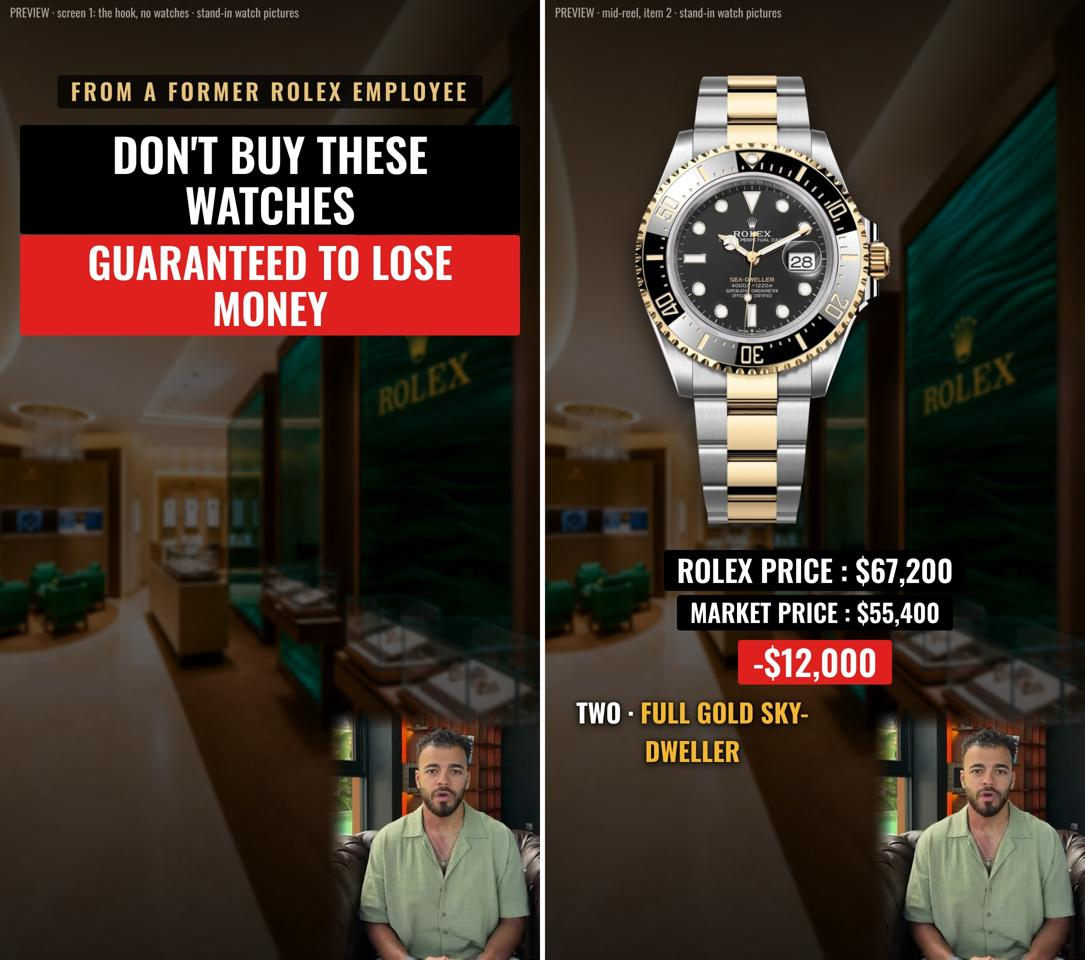
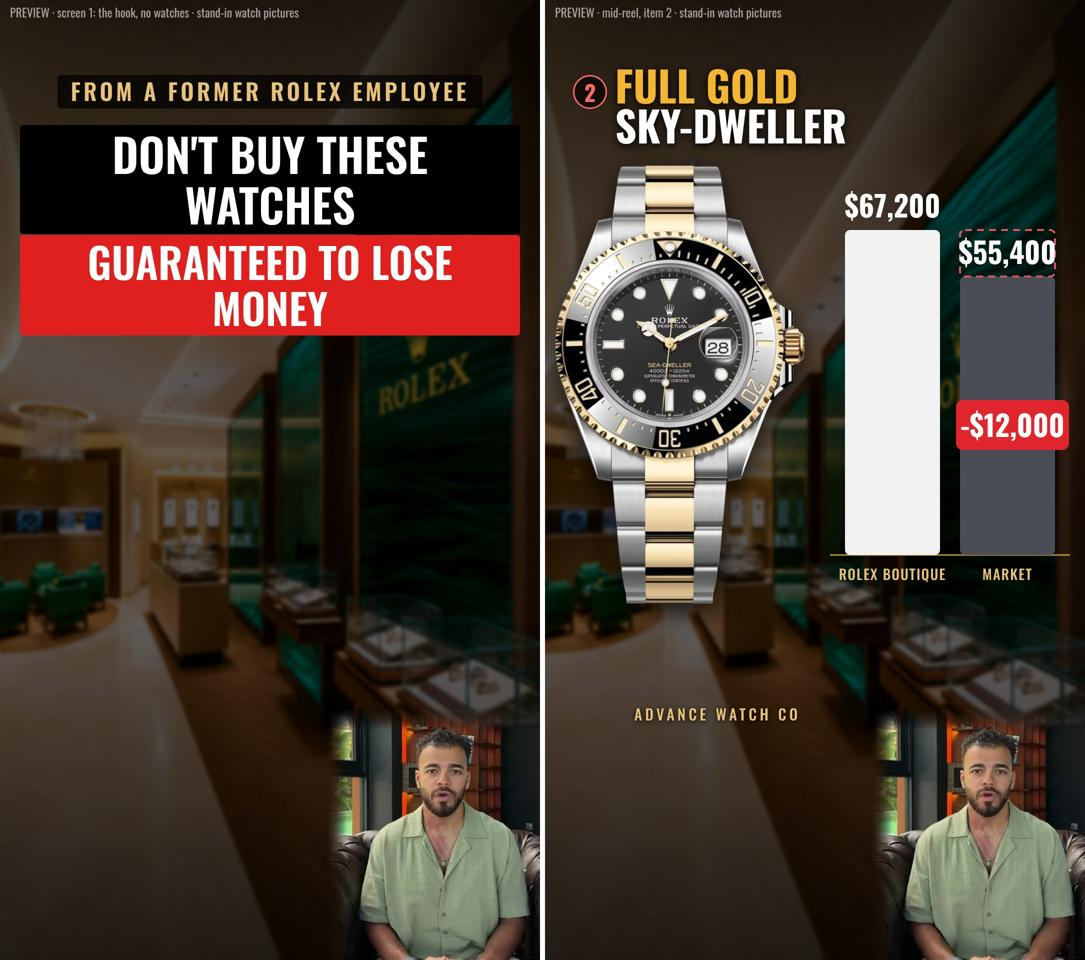
Five reels: R1 bar chart, R4 falling chart
Claude-Session: https://claude.ai/code/session_0196sG434LsFacRR9je27wED

Changed region(s): [[0.4866, 0.0625, 1.0, 0.8125]]

diff --git a/reels/scripts/five_top_reels.md b/reels/scripts/five_top_reels.md
@@ -3,7 +3,7 @@ Nothing is made and no credits are spent until you say "make it" for each one.
 Look: you bottom-right, hook first with no watches, 50 fps, natural audio. Each reel copies the visual concept of YOUR original video of that reel (see 'Visual' under each). Only R5 is a ranking-board reel. Shirts alternate: R1 green, R2 beige, R3 green, R4 beige, R5 green.
 
 ## R1. 571K "5 Rolex you should never buy at retail" (gold lineup) | green | about 60 s, about 21 credits
-Visual (your v7 video): bright boutique photo, one big watch in the middle per item, black price tags "ROLEX PRICE" then "MARKET PRICE", then a red loss box. Hook screen has no watches.
+Visual (new, in the style you liked): numbered title, watch on the left, and a price-drop bar chart on the right: a tall bar for the boutique price, a shorter bar for the market price, and a red box showing the loss. Hook screen has no watches.
 
 From a former Rolex employee: don't buy these watches, because you are guaranteed to lose money. Five Rolex watches you should never buy at retail.
 One. The full rose gold GMT. It's $58,100 at the Rolex boutique, and in the market it's $48,500. That's $10,000 down the second you walk out of the boutique.
@@ -14,7 +14,7 @@ Five. The full gold Day-Date, diamond dial and diamond bezel. It's $85,100 at th
 Send this video to someone about to go to the Rolex boutique and overpay.
 
 ## R2. 477K "You'll lose money the second you walk out" (gold and platinum lineup) | beige | about 58 s, about 19 credits
-Visual: same family as R1 but a different look: numbered title, watch on the left, a red price-box stack on the right (retail, market, YOU LOSE, % down).
+Visual (approved by you): numbered title, watch on the left, a red price-box stack on the right (retail, market, YOU LOSE, % down).
 
 From a former Rolex employee: five Rolex watches you should never buy at retail. You lose money the second you walk out.
 One. White gold GMT-Master Sprite. It's $59,795 at the Rolex boutique, and $47,960 in the market. You lose $11,800.
@@ -25,7 +25,7 @@ And five. Deepsea blue. It's $18,815 at the Rolex boutique, and $16,900 in the m
 DM me for price and availability.
 
 ## R3. 475K "5 Rolex going up in value" | green | about 70 s, about 23 credits
-Visual (your v8 video): numbered gold circle and watch name at the top, watch on the left, four price boxes on the right (retail price at Rolex boutique, market price, profit, profit up %), "ADVANCE WATCH CO" at the bottom.
+Visual (approved by you): numbered gold circle and watch name at the top, watch on the left, four price boxes on the right (retail price at Rolex boutique, market price, profit, profit up %), "ADVANCE WATCH CO" at the bottom.
 
 From a former Rolex employee: these five Rolex watches are always going up in value.
 One. The GMT-Master Pepsi. It's $13,000 at the Rolex boutique, and in the market it's selling for $35,400. That's $22,400 profit, 172% up in value.
@@ -40,7 +40,7 @@ Your current store prices are different from those market numbers, so there are 
 - Option B (recommended): refresh the market side from your store today: Pepsi $31,314 (+$18,300, +141%); Daytona Panda $39,483 (+$21,200, +116%); Sky-Dweller green $27,229 (+$7,600, +39%); Datejust mint $18,652 (+$5,600, +43%); Day-Date Everose slate ombré $65,350 (+$5,900, +10%). Boutique prices unchanged (I can't confirm Rolex's current list prices).
 
 ## R4. 463K "6 Rolex that lost their value" | beige | about 70 s, about 23 credits
-Visual (your original video): your website product page for each watch, with the VALUE now shown on screen (peak price and today's price) as you say it, which the original did not do.
+Visual (new, in the style you liked): numbered title, watch on the left, and a falling price chart on the right with the 2020 peak and today's value, plus a red tag. The value is on screen for every watch.
 
 From a former Rolex employee: six Rolex watches lost their value, and I will never recommend any of them.
 One. Rolex Air-King. It peaked at $8,500 in 2020, today it's $7,600. No nickname, no waitlist, and no collector chasing it. High supply and no demand.
